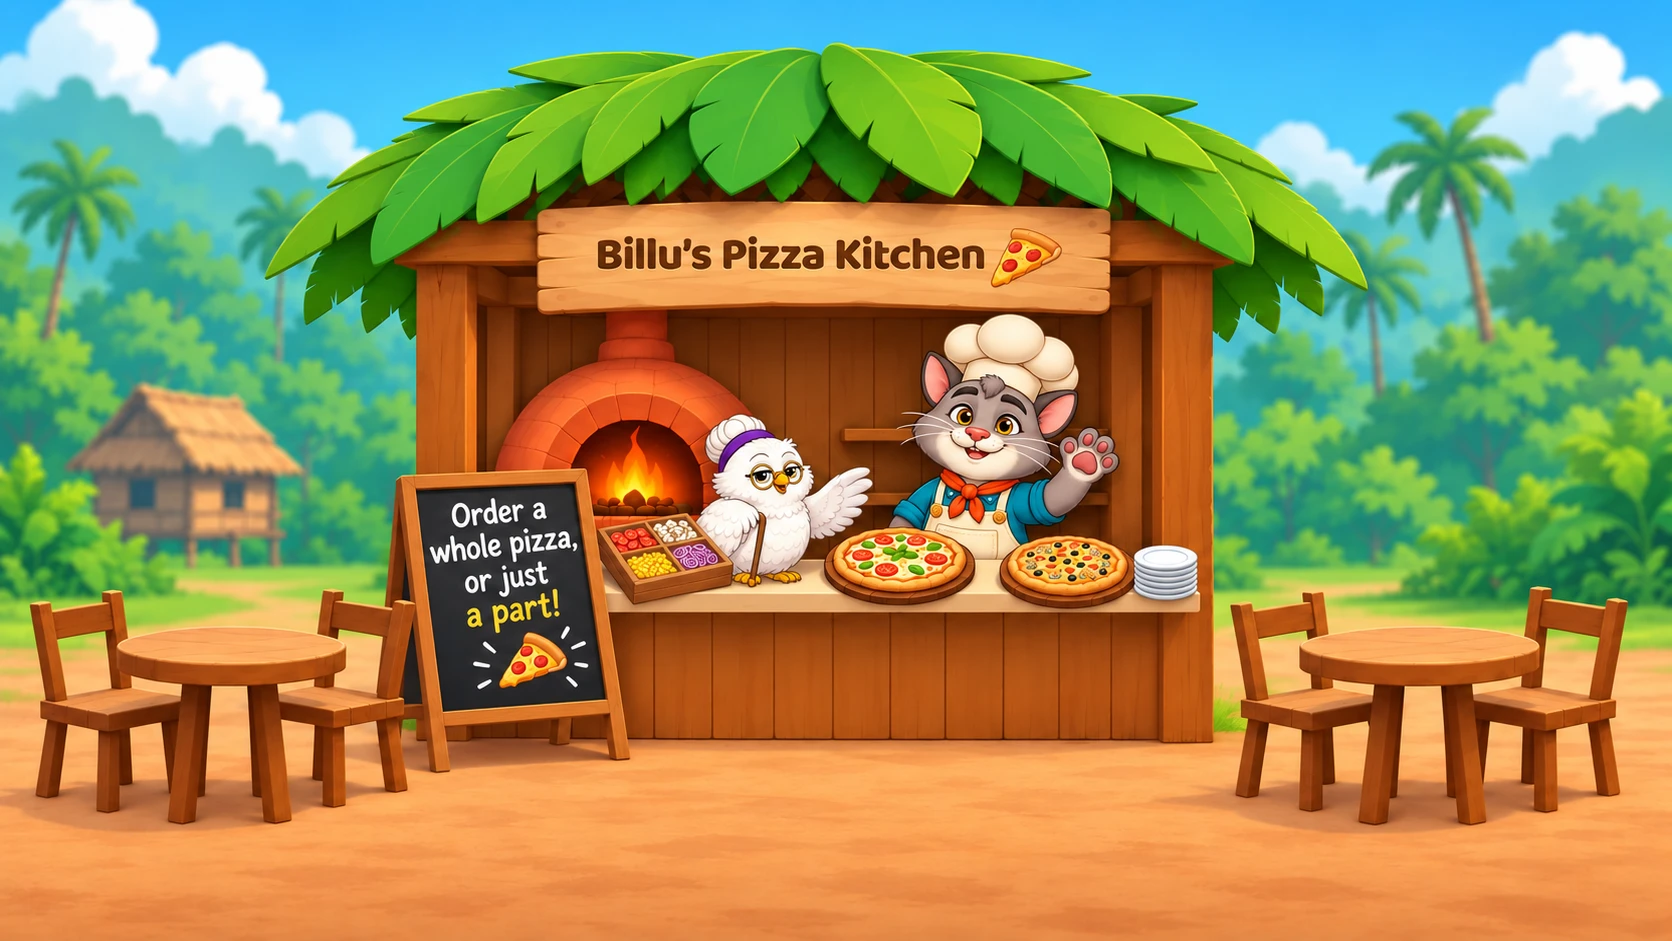
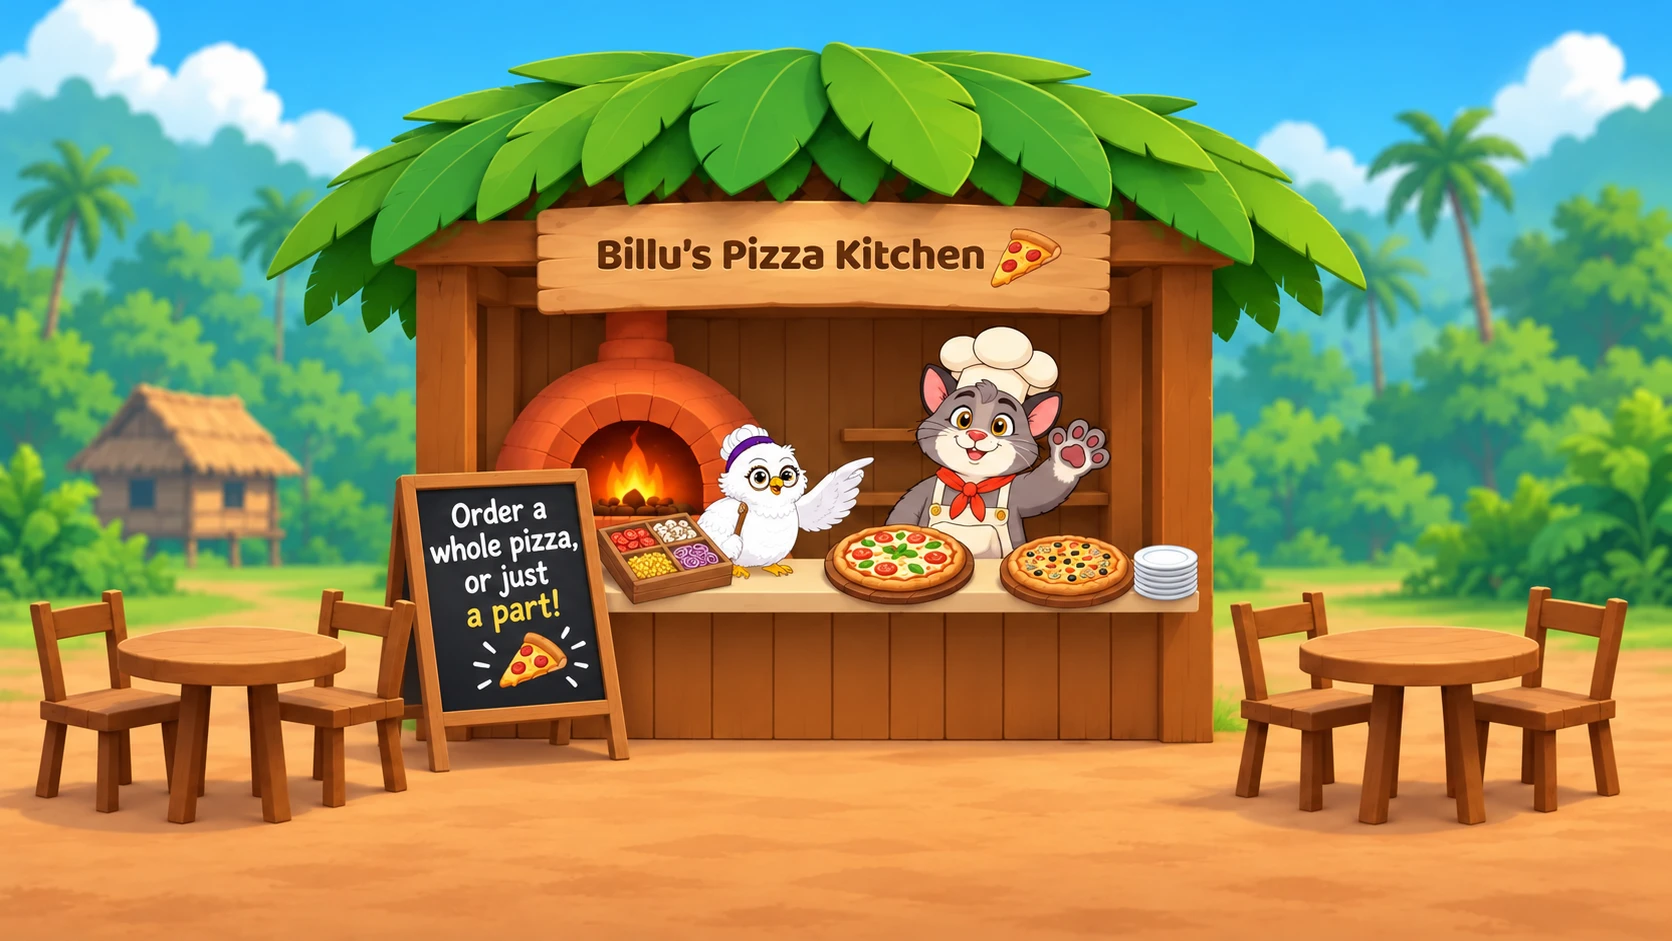
Story 1, scene 1: the new shop picture (Noori pointing), bubbles lined up with it

diff --git a/Final/index.html b/Final/index.html
@@ -3018,7 +3018,7 @@ async function storyContext1(){
   // 1-4. the shop picture (sheet: Context_Final): Noori by the oven, Billu behind the counter
   const open1=document.createElement("div"); open1.className="sshot"; open1.innerHTML=`<img src="assets/story/scene1_shop.webp" alt="">`;
   $("sworld").appendChild(open1); void open1.offsetWidth; open1.classList.add("in");
-  const aN=anchor(41.3,43.6,7.9,18.5,"noori"), aB=anchor(52.6,33.5,13.2,26,"billu");
+  const aN=anchor(41.9,45.2,6.5,16.5,"noori"), aB=anchor(54.5,34.8,12.5,24.5,"billu");
   STORY.cast.noori=aN; STORY.cast.billu=aB;
   await sLine("narr","Billu’s Pizza Kitchen is open!");
   await sLine("narr","Here, you need not order a whole pizza. You can order as many pizza slices as you want to eat!");

diff --git a/level1_draft2.html b/level1_draft2.html
@@ -3005,7 +3005,7 @@ async function storyContext1(){
   // 1-4. the shop picture (sheet: Context_Final): Noori by the oven, Billu behind the counter
   const open1=document.createElement("div"); open1.className="sshot"; open1.innerHTML=`<img src="assets/story/scene1_shop.webp" alt="">`;
   $("sworld").appendChild(open1); void open1.offsetWidth; open1.classList.add("in");
-  const aN=anchor(41.3,43.6,7.9,18.5,"noori"), aB=anchor(52.6,33.5,13.2,26,"billu");
+  const aN=anchor(41.9,45.2,6.5,16.5,"noori"), aB=anchor(54.5,34.8,12.5,24.5,"billu");
   STORY.cast.noori=aN; STORY.cast.billu=aB;
   await sLine("narr","Billu’s Pizza Kitchen is open!");
   await sLine("narr","Here, you need not order a whole pizza. You can order as many pizza slices as you want to eat!");
